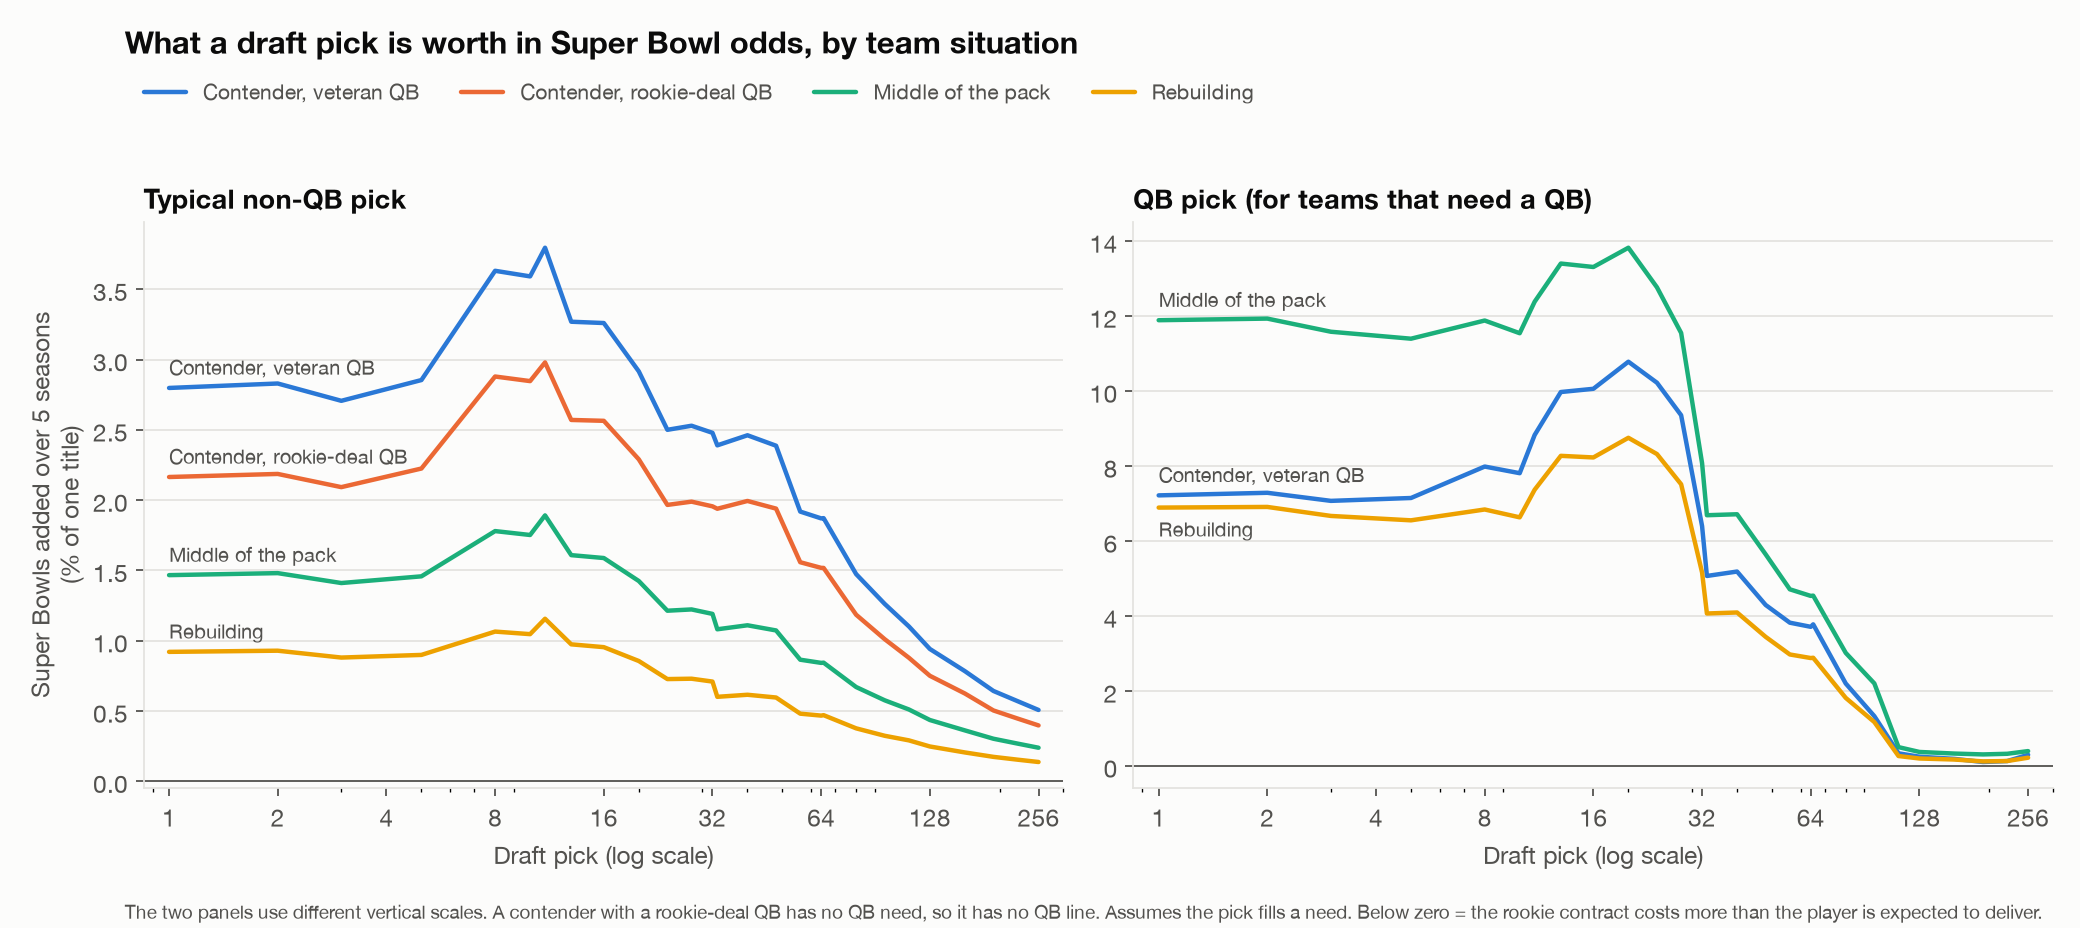
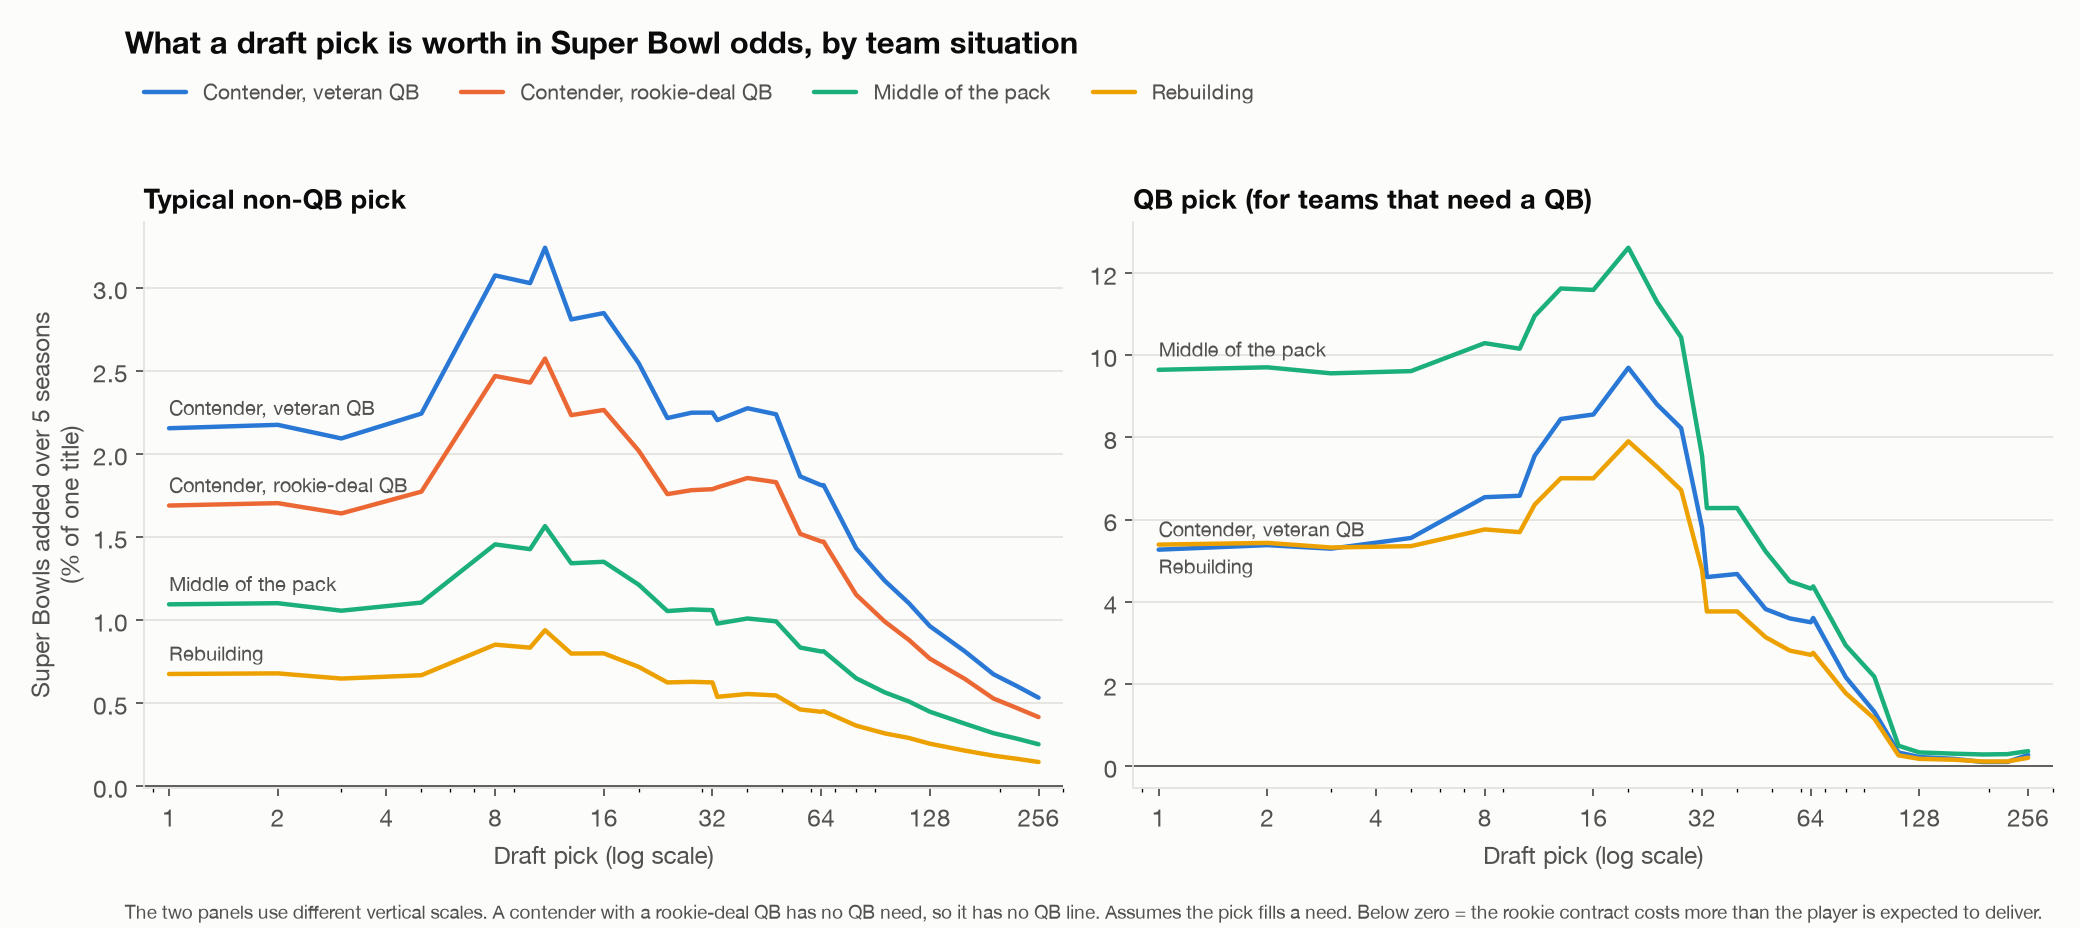
Adopt narrow pick-adjusted label as default (LABEL=stored restores cfdarko's); rebuild pick values, trades, teams, review, simulator; undrafted test: no shift needed

diff --git a/scripts/udfa_slope_test.py b/scripts/udfa_slope_test.py
@@ -1,0 +1,93 @@
+"""Does the pick-attributable playing-time slope continue past the draft? (Decides whether the narrow label's
+year 2-4 share shift, scripts/pickadj_label.py, should also apply to undrafted players.)
+
+Same data and controls as the narrow fit (years 2-4 of a career, seasons with snap share >= 0.2 and a measured
+PFF quality q, 2013-2025), now with undrafted players added:
+  share ~ D*log(pick+10) + D*QB*log(pick+10) + U + q + q^2 + prior share + prior q (+ flag)
+          + career year + pricing group + season
+  D = drafted, U = undrafted indicator (its coefficient is the undrafted level, on the same scale as b*log(pick+10)).
+Specified before running:
+  on the line   U - b*log(310)   (undrafted where the drafted line, extended to pick 300, puts them)
+  flat          U - b*log(272)   (undrafted where the last pick of the draft, ~262, sits)
+  rule          extend the shift to undrafted players only if they play clearly less than the last picks
+                ("flat" difference < 0 with 95% interval excluding 0) and are consistent with the line ("on the
+                line" interval includes 0). Otherwise leave them unchanged.
+Runs cfdarko's build_label only far enough to get the label's own quality table, then stops (nothing written).
+"""
+import sys
+from pathlib import Path
+
+import numpy as np
+import pandas as pd
+import statsmodels.api as sm
+
+sys.argv = sys.argv[:1]
+sys.path.insert(0, str(Path(__file__).resolve().parent))
+import grade_only_label as go  # noqa: E402
+
+rv = go.rv
+
+
+class Done(Exception):
+    pass
+
+
+def test():
+    s = go._load_snaps()
+    q, pos = go.CAP["q"], go.CAP["pos"]
+    p2g = go.crosswalk()
+    bp = pd.read_parquet(rv.PROCESSED_DIR / "bridge_players.parquet",
+                         columns=["pfr_id", "draft_year", "overall_pick", "is_udfa"]).dropna(subset=["pfr_id", "draft_year"])
+    bp = bp.drop_duplicates("pfr_id").set_index("pfr_id")
+    drafted = bp.overall_pick.notna() & ~bp.is_udfa.fillna(False).astype(bool)
+    s["share0"] = s[["offense_pct", "defense_pct"]].max(axis=1)
+    s["gsis"] = s.pfr_player_id.map(p2g)
+    s["g"] = s.gsis.map(pos)
+    s["q"] = [q.get((a, y), np.nan) for a, y in zip(s.gsis, s.season)]
+    s["yr"] = s.season - s.pfr_player_id.map(bp.draft_year)
+    s["D"] = s.pfr_player_id.map(drafted).astype(float)
+    s["pick"] = s.pfr_player_id.map(bp.overall_pick.where(drafted))
+    prev = s.set_index(["pfr_player_id", "season"]).share0
+    s["prior"] = [prev.get((p, y - 1), 0.0) for p, y in zip(s.pfr_player_id, s.season)]
+    qprev = {(p, y): (qq if sh >= 0.2 else np.nan) for p, y, qq, sh in zip(s.pfr_player_id, s.season, s.q, s.share0)}
+    s["prior_q"] = [qprev.get((p, y - 1), np.nan) for p, y in zip(s.pfr_player_id, s.season)]
+    s["no_prior_q"] = s.prior_q.isna().astype(float)
+    s["prior_q"] = s.prior_q.fillna(0.0)
+    F = s[s.D.notna() & s.yr.between(1, 3) & (s.share0 >= 0.2) & s.g.notna() & s.q.notna()].copy()
+    F["lpick"] = np.where(F.D == 1, np.log(F.pick + 10), 0.0)
+    F["lpick_qb"] = F.lpick * (F.g == "QB")
+    F["U"] = 1.0 - F.D
+    F["q2"] = F.q ** 2
+    X = pd.concat([F[["lpick", "lpick_qb", "U", "q", "q2", "prior", "prior_q", "no_prior_q"]],
+                   pd.get_dummies(F.yr.astype(int), prefix="yr", drop_first=True, dtype=float),
+                   pd.get_dummies(F.g, prefix="g", drop_first=True, dtype=float),
+                   pd.get_dummies(F.season, prefix="s", drop_first=True, dtype=float)], axis=1)
+    m = sm.OLS(F.share0, sm.add_constant(X)).fit(cov_type="cluster", cov_kwds={"groups": F.pfr_player_id})
+    V = m.cov_params()
+    print(f"\nUNDRAFTED vs THE PICK LINE (years 2-4, share >= 0.2, measured quality; {len(F)} seasons, "
+          f"{int(F.U.sum())} undrafted seasons from {F[F.U == 1].pfr_player_id.nunique()} players)")
+    print(f"  drafted slope b = {m.params.lpick:+.4f} per log(pick+10) (se {m.bse.lpick:.4f}); "
+          f"undrafted level U = {m.params.U:+.4f} (se {m.bse.U:.4f})")
+    for nm, pk in [("flat (vs last pick, ~262)", 262), ("on the line (pick 300)", 300)]:
+        c = pd.Series(0.0, index=m.params.index)
+        c["U"], c["lpick"] = 1.0, -np.log(pk + 10)
+        est = float(c @ m.params)
+        se = float(np.sqrt(c @ V @ c))
+        print(f"  {nm:28s} undrafted minus line at pick {pk}: {est:+.4f} share (95% {est - 1.96 * se:+.4f} to "
+              f"{est + 1.96 * se:+.4f})")
+    for pk in (100, 200, 262):
+        print(f"    (line at pick {pk}: {m.params.lpick * np.log(pk + 10):+.4f})")
+    raise Done
+
+
+def main():
+    rv.quality_table_pff = go.quality_capture
+    rv.load_snaps = test
+    try:
+        rv.build_label(Path("/dev/null"))
+    except Done:
+        pass
+
+
+if __name__ == "__main__":
+    main()

diff --git a/scripts/label_bracket.py b/scripts/label_bracket.py
@@ -22,7 +22,7 @@ import pick_value as pv
 import prospect_model as pm
 import trade
 
-LABELS = {"stored": pm.LABEL_FILE, "narrow": pm.OUT / "labels_pickadj_narrow.parquet",
+LABELS = {"stored": pm.CF / "data/processed/rookie_value_labels.parquet", "narrow": pm.OUT / "labels_pickadj_narrow.parquet",
           "pickadj": pm.OUT / "labels_pickadj.parquet", "grade": pm.OUT / "labels_gradeonly_t20.parquet"}
 NAMES = {"stored": "stored", "narrow": "narrow (yrs 2-4)", "pickadj": "pick-adj (all yrs)", "grade": "grade-only"}
 SHOW = [1, 5, 10, 20, 32, 64, 96, 160]
@@ -65,8 +65,8 @@ def compare():
     have = [n for n in LABELS if (pm.OUT / f"bracket_{n}_pick_value.parquet").exists()]
     G = {n: pd.read_parquet(pm.OUT / f"bracket_{n}_pick_value.parquet") for n in have}
     live = pd.read_parquet(pm.OUT / "pick_value_titles.parquet")
-    chk = G["stored"].merge(live, on=["situation", "grp", "pick"], suffixes=("", "_live"))
-    print(f"stored-label rerun vs live pick_value_titles: max abs diff "
+    chk = G[pm.LABEL].merge(live, on=["situation", "grp", "pick"], suffixes=("", "_live"))
+    print(f"{pm.LABEL}-label rerun vs live pick_value_titles: max abs diff "
           f"{(chk.titles_added - chk.titles_added_live).abs().max() * 100:.4f} (% of a title)\n")
     for grp in ["nonqb", "QB"]:
         print(f"{'Typical non-QB' if grp == 'nonqb' else 'QB'} pick, titles added (% of one Super Bowl); "

diff --git a/src/prospect_model.py b/src/prospect_model.py
@@ -31,8 +31,16 @@ import numpy as np
 import pandas as pd
 
 CF = Path.home() / "cfdarko"
-# outcome label file; scripts/grade_only_check.py swaps in data/derived/labels_gradeonly_t*.parquet
-LABEL_FILE = CF / "data/processed/rookie_value_labels.parquet"
+# Outcome label (Nov 2026): "narrow" = cfdarko's v4 label with the pick-attributable part of years 2-4 playing
+# time removed (each drafted player's year 2-4 snap share moved to what a pick-100 player of the same PFF quality
+# gets; built by scripts/pickadj_label.py narrow into data/derived, which isn't in git: run that script to
+# rebuild it). "stored" = cfdarko's label as is. Tests: scripts/sunk_cost_test.py, grade_only_check.py,
+# label_bracket.py (README "Sunk-cost playing time" and after). Environment variable LABEL overrides it.
+LABEL = os.environ.get("LABEL", "narrow")
+LABEL_FILE = {"stored": CF / "data/processed/rookie_value_labels.parquet",
+              "narrow": Path("data/derived/labels_pickadj_narrow.parquet")}[LABEL]
+if not LABEL_FILE.exists():
+    raise FileNotFoundError(f"{LABEL_FILE} missing: run `python scripts/pickadj_label.py narrow` (or set LABEL=stored)")
 OUT = Path("data/derived")
 SEASONS = [1, 2, 3, 4]
 LAST_SEASON_PLAYED = 2025

diff --git a/scripts/grade_only_check.py b/scripts/grade_only_check.py
@@ -27,7 +27,7 @@ sys.path.insert(0, "scripts")
 import prospect_model as pm
 from multisport_test import SLOT_CLASSES, expectations
 
-LABELS = {"stored": pm.LABEL_FILE, "grade-only t20": pm.OUT / "labels_gradeonly_t20.parquet",
+LABELS = {"stored": pm.CF / "data/processed/rookie_value_labels.parquet", "grade-only t20": pm.OUT / "labels_gradeonly_t20.parquet",
           "grade-only t35": pm.OUT / "labels_gradeonly_t35.parquet"}
 BANDS = [0, 10, 32, 64, 100, 160, 262]
 
@@ -66,7 +66,7 @@ def main():
         uni, R = run(path)
         unis[nm] = uni
         res[nm] = R[(R.on_board == 1) & R.drafted.astype(bool) & R.exp_cons.notna() & R.hasan_rank.notna()]
-    pm.LABEL_FILE = LABELS["stored"]
+    pm.LABEL_FILE = LABELS["stored"]  # these tests were run with the stored label as the default
 
     print("PRIMARY: team information beyond the board (board players drafted 2018-22)")
     keys = None

diff --git a/src/review.py b/src/review.py
@@ -607,7 +607,8 @@ class RealizedV2:
         from pathlib import Path as _P
         # units: see outcomes_v2.unit_factor; pos_pay: outcomes_v2.pay_factor (None = its default)
         self.ctx, self.n, self.units, self.pos_pay = ctx, n, units, pos_pay
-        L = pd.read_parquet(_P.home() / "cfdarko/data/processed/rookie_value_labels.parquet")
+        import prospect_model as pm
+        L = pd.read_parquet(pm.LABEL_FILE)  # same label as the engine (prospect_model.LABEL)
         self.L = L.dropna(subset=["pfr_id"]).drop_duplicates("pfr_id").set_index("pfr_id")
         extra = udfa_pre2016_labels()  # 2014-2015 undrafted players, missing from cfdarko's labels
         self.L = pd.concat([self.L, extra[~extra.index.isin(self.L.index)]])

diff --git a/src/positions.py b/src/positions.py
@@ -32,7 +32,8 @@ def moves() -> pd.DataFrame:
     if MOVES.exists():
         return pd.read_parquet(MOVES)
     from review import board, draft_night
-    L = pd.read_parquet(Path.home() / "cfdarko/data/processed/rookie_value_labels.parquet").dropna(subset=["pfr_id"])
+    import prospect_model as pm
+    L = pd.read_parquet(pm.LABEL_FILE).dropna(subset=["pfr_id"])  # NFL pricing group only; same in every label
     L = L.drop_duplicates("pfr_id").set_index("pfr_id")
     dp = pd.read_parquet(RAW / "draft_picks.parquet")
     pid = {(y, p): i for y, p, i in zip(dp.season, dp.pick, dp.pfr_player_id)}

diff --git a/src/simulator.py b/src/simulator.py
@@ -55,6 +55,7 @@ def _key(sit, year=None) -> str:
     nb = "_nbdrop" if NO_BOARD_CLASSES == "drop" else ""  # board-less classes left out (outcomes_v2)
     nb += "_mono" + MONOTONE if MONOTONE != "off" else ""  # monotone value in rank (outcomes_v2)
     nb += "_lf" if pm.LINK_FIX == "on" else ""  # training-data link repair (prospect_model)
+    nb += "" if pm.LABEL == "stored" else f"_lb{pm.LABEL}"  # outcome label (prospect_model.LABEL)
     return f"start{sit['start']:g}_qb{sit['qb_from']}_shift{sh}_fw{FALL_WEIGHT:g}_v2_{UNITS}{ho}{cc}{nb}"
 
 

diff --git a/scripts/fall_weight_gradeonly.py b/scripts/fall_weight_gradeonly.py
@@ -19,7 +19,7 @@ import statsmodels.api as sm
 sys.path.insert(0, "src")
 import prospect_model as pm
 
-LABELS = {"stored": pm.LABEL_FILE, "grade-only t20": pm.OUT / "labels_gradeonly_t20.parquet",
+LABELS = {"stored": pm.CF / "data/processed/rookie_value_labels.parquet", "grade-only t20": pm.OUT / "labels_gradeonly_t20.parquet",
           "grade-only t35": pm.OUT / "labels_gradeonly_t35.parquet"}
 N_BOOT = 500
 

diff --git a/reports/teams_2027.md b/reports/teams_2027.md
@@ -1,4 +1,4 @@
-# 2027 draft in Super Bowl odds, team by team (as of Nov 06, 2026)
+# 2027 draft in Super Bowl odds, team by team (as of Nov 08, 2026)
 
 Values are the change in expected Super Bowls over 2027-2031, in % of one title.
 Trade down = own top first for a pick ~10 spots later + a pick ~42 spots later.
@@ -7,37 +7,37 @@ QB = the team's intended starter: a 1st-round QB from the last 3 drafts with 15%
 
 | Team | Strength now | 2027 exp. | QB (status) | QB need | 1sts (median slot) | Value of 1sts | Trade down | QB move | Sell next 1st |
 |---|---|---|---|---|---|---|---|---|---|
-| SEA | +5.3 | +3.2 | Sam Darnold [78%] (paid veteran) | no | #21 | 2.0 | +0.8 |  | +0.2 |
-| JAX | +5.3 | +3.2 | Trevor Lawrence [95%] (paid veteran) | no | #28 | 1.7 | +1.2 |  | +0.1 |
-| BUF | +4.5 | +2.7 | Josh Allen [99%] (paid veteran) | no | #30 | 1.6 | +1.2 |  | +0.1 |
-| LA | +4.5 | +2.7 | Matthew Stafford [98%] (veteran, 40 in 2027) | now | #19 | 1.9 | +0.9 | #19, #51, next 1st -> #5 QB: +10.3 | +0.1 |
-| SF | +4.4 | +2.7 | Brock Purdy [98%] (paid veteran) | no | #29 | 1.6 | +1.2 |  | +0.1 |
-| KC | +3.9 | +2.3 | Patrick Mahomes [100%] (paid veteran) | no | #26 | 1.7 | +1.0 |  | +0.1 |
-| DEN | +3.4 | +2.0 | Bo Nix [100%] (rookie deal (1st round)) | no | #28 | 0.9 | +0.6 |  | +0.1 |
-| CIN | +3.2 | +1.9 | Joe Burrow [99%] (paid veteran) | no | #27 | 1.5 | +1.0 |  | +0.0 |
-| HOU | +3.2 | +1.9 | C.J. Stroud [100%] (rookie deal (1st round)) | no | #15 | 0.9 | +0.3 |  | -0.1 |
-| DET | +2.3 | +1.4 | Jared Goff [99%] (paid veteran) | no | #26 | 1.5 | +0.9 |  | -0.1 |
-| NE | +2.0 | +1.2 | Drake Maye [98%] (rookie deal (1st round)) | no | #22 | 0.9 | +0.4 |  | +0.1 |
-| DAL | +2.0 | +1.2 | Dak Prescott [100%] (paid veteran) | no | #20 (from GB) | 1.6 | +0.7 |  | -0.1 |
-| CHI | +1.9 | +1.1 | Caleb Williams [59%, check] (rookie deal (1st round)) | no | #25 | 0.8 | +0.5 |  | +0.1 |
+| SEA | +5.3 | +3.2 | Sam Darnold [78%] (paid veteran) | no | #21 | 1.7 | +0.9 |  | +0.2 |
+| JAX | +5.3 | +3.2 | Trevor Lawrence [95%] (paid veteran) | no | #28 | 1.5 | +1.2 |  | +0.1 |
+| BUF | +4.5 | +2.7 | Josh Allen [99%] (paid veteran) | no | #30 | 1.4 | +1.2 |  | +0.1 |
+| LA | +4.5 | +2.7 | Matthew Stafford [98%] (veteran, 40 in 2027) | now | #19 | 1.6 | +0.9 | #19, #51, next 1st -> #5 QB: +8.8 | +0.1 |
+| SF | +4.4 | +2.7 | Brock Purdy [98%] (paid veteran) | no | #29 | 1.4 | +1.2 |  | +0.1 |
+| KC | +3.9 | +2.3 | Patrick Mahomes [100%] (paid veteran) | no | #26 | 1.4 | +1.1 |  | +0.1 |
+| DEN | +3.4 | +2.0 | Bo Nix [100%] (rookie deal (1st round)) | no | #28 | 0.8 | +0.6 |  | +0.1 |
+| CIN | +3.2 | +1.9 | Joe Burrow [99%] (paid veteran) | no | #27 | 1.4 | +1.0 |  | +0.0 |
+| HOU | +3.2 | +1.9 | C.J. Stroud [100%] (rookie deal (1st round)) | no | #15 | 0.7 | +0.3 |  | -0.1 |
+| DET | +2.3 | +1.4 | Jared Goff [99%] (paid veteran) | no | #26 | 1.3 | +1.0 |  | -0.0 |
+| NE | +2.0 | +1.2 | Drake Maye [98%] (rookie deal (1st round)) | no | #22 | 0.7 | +0.4 |  | +0.1 |
+| DAL | +2.0 | +1.2 | Dak Prescott [100%] (paid veteran) | no | #20 (from GB) | 1.4 | +0.7 |  | -0.0 |
+| CHI | +1.9 | +1.1 | Caleb Williams [59%, check] (rookie deal (1st round)) | no | #25 | 0.7 | +0.6 |  | +0.1 |
 | GB | +0.8 | +0.5 | Jordan Love [100%] (paid veteran) | no | none | 0.0 |  |  |  |
-| MIN | +0.6 | +0.4 | Kyler Murray [76%] (stopgap veteran) | now | #26 | 1.3 | +0.8 | #26, #58, next 1st -> #5 QB: +8.3 | -0.1 |
-| PIT | +0.0 | +0.0 | Aaron Rodgers [98%] (veteran, 44 in 2027) | now | #23 | 1.3 | +0.7 | #23, #55, next 1st -> #5 QB: +7.9 | -0.2 |
-| LAC | -0.4 | -0.2 | Justin Herbert [100%] (paid veteran, below-average play) | season 2 | #4 | 1.5 | +1.3 | take a QB at #4: +8.3 | -0.2 |
-| CAR | -0.5 | -0.3 | Bryce Young [95%] (rookie deal (1st round)) | no | #14 | 0.7 | +0.2 |  | -0.1 |
-| BAL | -0.5 | -0.3 | Lamar Jackson [48%, check] (paid veteran) | no | #15 | 1.5 | +0.5 |  | -0.2 |
-| ATL | -1.2 | -0.7 | Michael Penix [73%] (rookie deal (1st round)) | no | #11 | 0.8 | +0.3 |  | -0.0 |
-| TB | -2.2 | -1.3 | Baker Mayfield [58%, check] (paid veteran, below-average play) | season 2 | #10 | 1.4 | +0.6 | #10, #42, next 1st -> #5 QB: +4.6 | -0.2 |
-| WAS | -2.6 | -1.5 | Jayden Daniels [64%, check] (rookie deal (1st round)) | no | #9 | 0.7 | +0.3 |  | -0.1 |
-| LV | -2.7 | -1.6 | Kirk Cousins [98%] (veteran, 39 in 2027) | now | #12 | 1.4 | +0.4 | #12, #44, next 1st -> #5 QB: +5.4 | -0.2 |
-| NO | -2.9 | -1.7 | Tyler Shough [100%] (rookie deal (later round)) | season 2 | #8 | 1.3 | +0.6 | #8, #40, next 1st -> #5 QB: +4.4 | -0.2 |
+| MIN | +0.6 | +0.4 | Kyler Murray [76%] (stopgap veteran) | now | #26 | 1.2 | +0.8 | #26, #58, next 1st -> #5 QB: +6.9 | -0.1 |
+| PIT | +0.0 | +0.0 | Aaron Rodgers [98%] (veteran, 44 in 2027) | now | #23 | 1.1 | +0.8 | #23, #55, next 1st -> #5 QB: +6.5 | -0.1 |
+| LAC | -0.4 | -0.2 | Justin Herbert [100%] (paid veteran, below-average play) | season 2 | #4 | 1.2 | +1.3 | take a QB at #4: +6.8 | -0.1 |
+| CAR | -0.5 | -0.3 | Bryce Young [95%] (rookie deal (1st round)) | no | #14 | 0.6 | +0.3 |  | -0.1 |
+| BAL | -0.5 | -0.3 | Lamar Jackson [48%, check] (paid veteran) | no | #15 | 1.3 | +0.5 |  | -0.1 |
+| ATL | -1.2 | -0.7 | Michael Penix [73%] (rookie deal (1st round)) | no | #11 | 0.7 | +0.3 |  | +0.0 |
+| TB | -2.2 | -1.3 | Baker Mayfield [58%, check] (paid veteran, below-average play) | season 2 | #10 | 1.2 | +0.6 | #10, #42, next 1st -> #5 QB: +3.7 | -0.2 |
+| WAS | -2.6 | -1.5 | Jayden Daniels [64%, check] (rookie deal (1st round)) | no | #9 | 0.6 | +0.3 |  | -0.0 |
+| LV | -2.7 | -1.6 | Kirk Cousins [98%] (veteran, 39 in 2027) | now | #12 | 1.1 | +0.4 | #12, #44, next 1st -> #5 QB: +4.5 | -0.2 |
+| NO | -2.9 | -1.7 | Tyler Shough [100%] (rookie deal (later round)) | season 2 | #8 | 1.1 | +0.6 | #8, #40, next 1st -> #5 QB: +3.6 | -0.2 |
 | IND | -3.0 | -1.8 | Daniel Jones [98%] (paid veteran) | no | none | 0.0 |  |  |  |
-| NYG | -3.5 | -2.1 | J.J. McCarthy [20%, check] (rookie deal (1st round)) | no | #16 | 0.6 | +0.2 |  | -0.1 |
-| PHI | -3.5 | -2.1 | Jalen Hurts [60%, check] (paid veteran) | no | #6 | 1.3 | +0.9 |  | -0.3 |
-| NYJ | -3.6 | -2.1 | Geno Smith [100%] (veteran, 37 in 2027) | season 2 | #15 (from DAL), #7 (from IND), #5 | 4.2 | +1.0 | take a QB at #5: +7.0 | -0.2 |
-| CLE | -3.8 | -2.3 | Deshaun Watson [99%] (paid veteran, below-average play) | season 2 | #17 | 1.2 | +0.5 | #17, #49, next 1st -> #5 QB: +4.7 | -0.2 |
-| ARI | -3.9 | -2.3 | Jacoby Brissett [94%] (stopgap veteran) | now | #9 | 1.3 | +0.5 | #9, #41, next 1st -> #5 QB: +5.1 | -0.3 |
-| MIA | -5.9 | -3.5 | Malik Willis [100%] (paid veteran) | no | #2 | 1.0 | +1.2 |  | -0.3 |
-| TEN | -7.2 | -4.3 | Cam Ward [100%] (rookie deal (1st round)) | no | #2 | 0.5 | +0.6 |  | -0.1 |
+| NYG | -3.5 | -2.1 | J.J. McCarthy [20%, check] (rookie deal (1st round)) | no | #16 | 0.5 | +0.2 |  | -0.1 |
+| PHI | -3.5 | -2.1 | Jalen Hurts [60%, check] (paid veteran) | no | #6 | 1.0 | +0.9 |  | -0.2 |
+| NYJ | -3.6 | -2.1 | Geno Smith [100%] (veteran, 37 in 2027) | season 2 | #15 (from DAL), #7 (from IND), #5 | 3.2 | +1.0 | take a QB at #5: +5.8 | -0.2 |
+| CLE | -3.8 | -2.3 | Deshaun Watson [99%] (paid veteran, below-average play) | season 2 | #17 | 1.0 | +0.5 | #17, #49, next 1st -> #5 QB: +3.8 | -0.2 |
+| ARI | -3.9 | -2.3 | Jacoby Brissett [94%] (stopgap veteran) | now | #9 | 1.0 | +0.6 | #9, #41, next 1st -> #5 QB: +4.3 | -0.2 |
+| MIA | -5.9 | -3.5 | Malik Willis [100%] (paid veteran) | no | #2 | 0.8 | +1.1 |  | -0.2 |
+| TEN | -7.2 | -4.3 | Cam Ward [100%] (rookie deal (1st round)) | no | #2 | 0.4 | +0.6 |  | -0.1 |
 
 Caveats: QB status is a rule of thumb from 2026 snaps, contracts and age; an injured starter can be misread. 2027 pick ownership uses trade data through April 2026. Draft order is by record only.

diff --git a/README.md b/README.md
@@ -1276,6 +1276,32 @@ Value relative to pick 32 vs the stored label (contender with a veteran QB; othe
 Trade-ups gain titles 10% of the time under all four labels. No trade verdict flips under either pick correction.
 Reading: the supported (narrow) correction trims top-5 picks by ~15% relative to the late first round and lifts
 picks 64-160 by 7-18%; the rookie-season premium is the open question, and counting it all as bias roughly triples
-the trim. Not adopted yet (stored label still the default); adopting narrow would mean pointing
-`prospect_model.LABEL_FILE` at `data/derived/labels_pickadj_narrow.parquet` and rebuilding the pick-value chart,
-trade calculator and simulator tables.
+the trim. **Adopted Nov 2026** (next section).
+
+### Narrow label adopted (`prospect_model.LABEL`, Nov 2026)
+
+Default outcome label is now "narrow" (`data/derived/labels_pickadj_narrow.parquet`; data/ isn't in git, so rebuild
+it with `python scripts/pickadj_label.py narrow`). `LABEL=stored` restores cfdarko's label. The engine, the realized
+values of past picks (`review.RealizedV2`) and the position-moves table read the same file; simulator tables carry
+the label in their cache key (`_lbnarrow`). Results in the sections above were computed on the stored label
+unless they say otherwise; rerun with `LABEL=stored` to reproduce them.
+
+Rebuilt: pick values and chart, real trades, 2027 team report, past drafts 2014-26 (picks, trades, trade decisions),
+336 simulator tables, simulator page. App tests pass.
+- **Pick values** match the narrow bracket (non-QB #1 2.80 -> 2.15, #32 2.48 -> 2.25, #160 0.78 -> 0.81 % of a title,
+  contender with a veteran QB; QB #1 11.9 -> 9.6, middle of the pack).
+- **Real trades:** correlation 0.997 with before, no firm flips; trade-ups gain titles 10% of the time.
+- **2027 teams:** value of each team's firsts 1.27 -> 1.06 on average; trading down stays positive for every
+  team and gains a little for most (top picks are worth less).
+- **Past-drafts scorecard** (2014-22, model minus team, each recommendation at its first pick): round 1 +0.76 ->
+  +1.02 per recommendation, rounds 2-4 +0.05 -> +0.42, rounds 5-7 -0.11 -> -0.15. Recommendations unchanged at
+  94% / 91% / 77% of picks (rounds 1 / 2-4 / 5-7). On unchanged recommendations the new yardstick moves rounds 2-4
+  only +0.09 -> +0.11; most of the round 2-4 jump is one new recommendation: 2020 New England #37 takes Jalen Hurts
+  instead of Kyle Dugger (+28.7). That's one QB hit, not evidence of a round 2-4 edge; guidance unchanged
+  ("no tested edge after round 1").
+
+**Undrafted players** (`scripts/udfa_slope_test.py`): should the year 2-4 shift extend past the draft (pick 300)?
+Same fit with undrafted players added (1,015 seasons, 600 players). At equal quality they play -0.001 share vs the
+line extended to pick 300 (95% -0.017 to +0.014) and -0.008 vs the last pick of the draft (-0.023 to +0.007): they
+sit on the line, but the line only falls 0.006 between picks 262 and 300. Rule fixed in advance (extend only if they
+play clearly less than the last picks): not met. Left unchanged.
